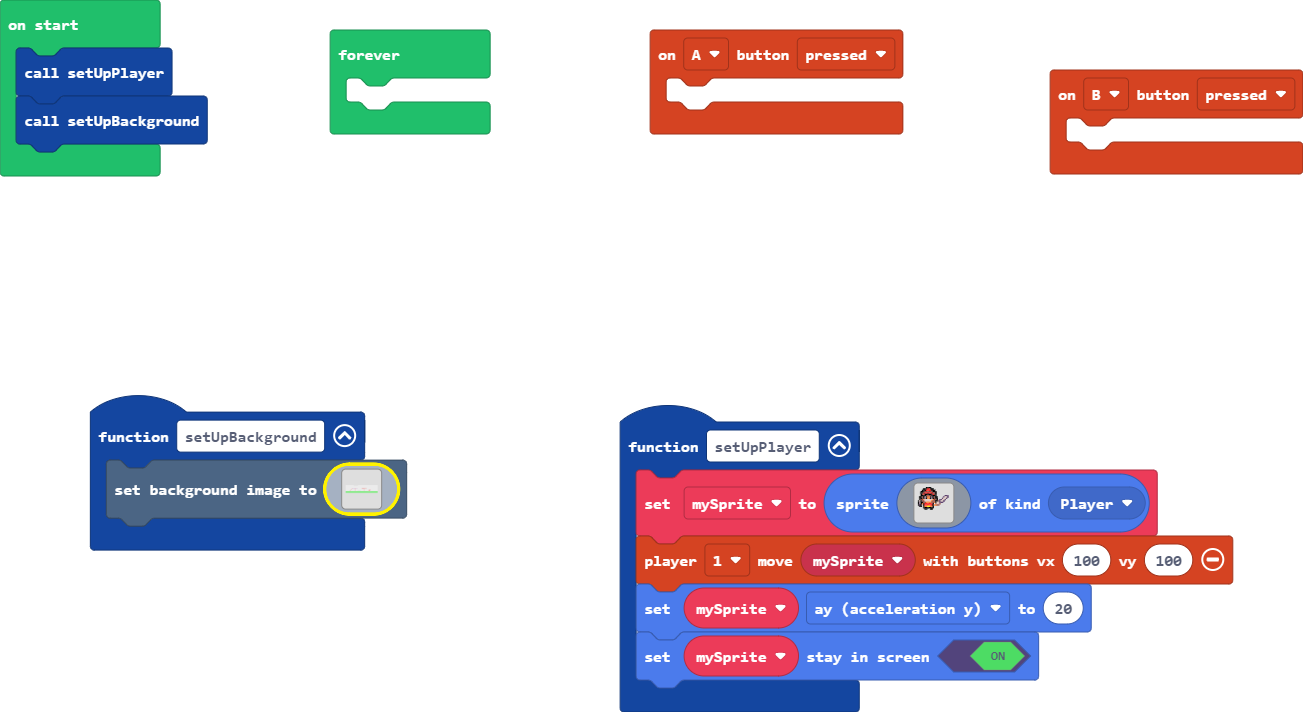
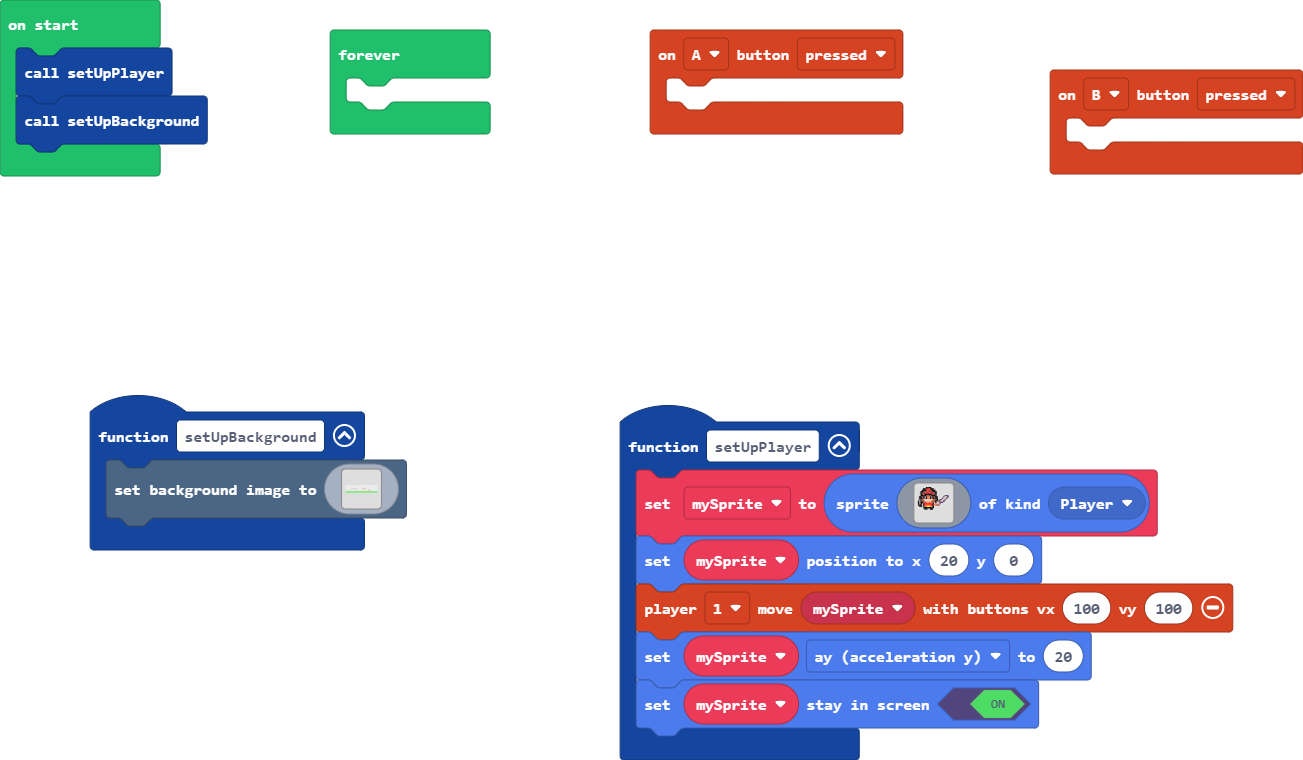
Changed the start position of the player

diff --git a/main.ts b/main.ts
@@ -155,6 +155,7 @@ function setUpPlayer () {
         ........................
         ........................
         `, SpriteKind.Player)
+    mySprite.setPosition(20, 0)
     controller.player1.moveSprite(mySprite, 100, 100)
     mySprite.ay = 20
     mySprite.setStayInScreen(true)
